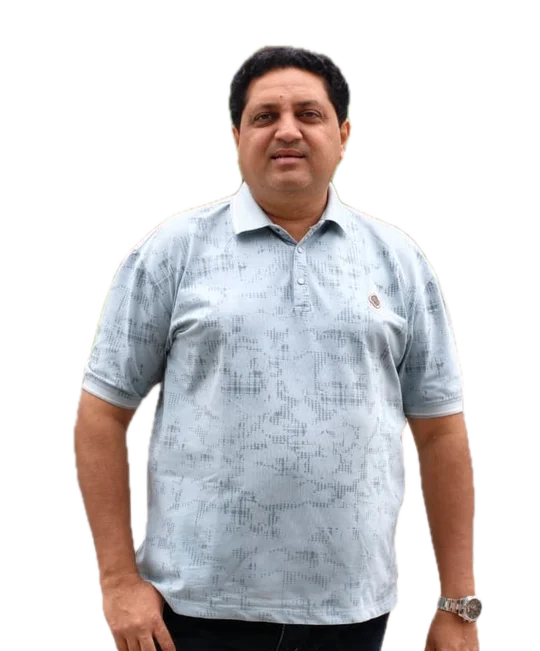
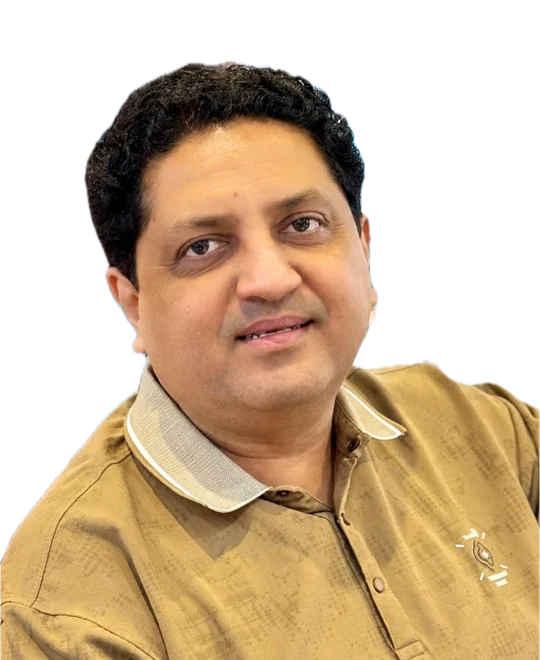
Add "What's new" launches, new founder photo, upright display font
- New section after the marquee showcasing the three recent launches
  (Offline Order App, Web-based ERP, RFID Solution) with animated
  mini-visuals and a "What's New" nav link; copy flagged for product
  team confirmation in lib/content.js
- Founder photo replaced with the new portrait (background removed
  locally); avatar regenerated on white, About card fitted by width
- Display font switched from Fraunces to Playfair Display and gold
  emphasis made upright everywhere — removes the curled "J"

diff --git a/components/Launches.jsx b/components/Launches.jsx
@@ -1,0 +1,149 @@
+import { ArrowRight, Check, Sparkles } from 'lucide-react';
+import Icon from './Icon';
+import SectionHeading from './SectionHeading';
+import { launches } from '@/lib/content';
+
+/* Small animated illustrations, CSS/SVG only. */
+
+function OfflineVisual() {
+  const rows = ['Bangle · 22K · 17.900 g', 'Necklace set · 916', 'Ring · 4.250 g · Dia'];
+  return (
+    <div className="relative mx-auto flex h-56 w-full items-end justify-center overflow-hidden" aria-hidden="true">
+      <div className="relative w-[9.5rem] translate-y-3 rounded-[1.6rem] border-[5px] border-navy-muted bg-navy p-3 pb-6 shadow-lift">
+        <div className="flex items-center justify-between text-[0.55rem] text-white/60">
+          <span>Orders</span>
+          <span className="inline-flex items-center gap-1 rounded-full bg-amber-400/15 px-1.5 py-0.5 font-semibold text-amber-300">
+            <span className="h-1.5 w-1.5 rounded-full bg-amber-300" style={{ animation: 'ping-soft 2s ease-out infinite' }} /> Offline
+          </span>
+        </div>
+        <ul className="mt-2 space-y-1.5">
+          {rows.map((r, i) => (
+            <li key={r} className="flex items-center gap-1.5 rounded-lg bg-white/[0.06] px-2 py-1.5 text-[0.55rem] text-white/85" style={{ animation: `hero-in 0.5s var(--ease) ${i * 0.5}s both` }}>
+              <span className="h-4 w-4 shrink-0 rounded bg-gold/30" /> {r}
+            </li>
+          ))}
+        </ul>
+        <div className="mt-2 rounded-lg bg-gold px-2 py-1 text-center text-[0.55rem] font-bold text-navy">3 orders · syncs when online</div>
+      </div>
+    </div>
+  );
+}
+
+function WebVisual() {
+  return (
+    <div className="relative mx-auto flex h-56 w-full items-end overflow-hidden" aria-hidden="true">
+      <div className="w-full rounded-t-xl border border-white/10 bg-navy shadow-lift">
+        <div className="flex items-center gap-1.5 border-b border-white/10 px-3 py-2">
+          <span className="h-2 w-2 rounded-full bg-[#ff5f57]" />
+          <span className="h-2 w-2 rounded-full bg-[#febc2e]" />
+          <span className="h-2 w-2 rounded-full bg-[#28c840]" />
+          <span className="ml-2 flex-1 truncate rounded-md bg-white/10 px-2 py-0.5 text-[0.55rem] text-white/60">🔒 erp.datacaresoftech.com</span>
+        </div>
+        <div className="grid grid-cols-[4.5rem_1fr] gap-2 p-3">
+          <ul className="space-y-1">
+            {['Dashboard', 'Sales', 'Stock', 'Ledger', 'Reports'].map((t, i) => (
+              <li key={t} className={`rounded px-1.5 py-1 text-[0.55rem] ${i === 0 ? 'bg-gold text-navy' : 'text-white/60'}`}>{t}</li>
+            ))}
+          </ul>
+          <div className="space-y-2">
+            <div className="grid grid-cols-3 gap-1.5">
+              {[['Today’s sale', '₹ 4.8L'], ['Gold fine', '812 g'], ['Branches', '3 live']].map(([k, v]) => (
+                <div key={k} className="rounded-lg bg-white/[0.06] p-1.5">
+                  <p className="text-[0.45rem] uppercase tracking-wider text-white/45">{k}</p>
+                  <p className="text-[0.65rem] font-semibold text-gold-light">{v}</p>
+                </div>
+              ))}
+            </div>
+            <div className="flex h-12 items-end gap-1 rounded-lg bg-white/[0.06] p-1.5">
+              {[40, 55, 35, 70, 60, 85, 75].map((h, i) => (
+                <span key={i} className="flex-1 rounded-sm bg-gold/70" style={{ height: `${h}%`, animation: `draw 0.8s var(--ease) ${i * 0.08}s both`, transformOrigin: 'bottom' }} />
+              ))}
+            </div>
+          </div>
+        </div>
+      </div>
+    </div>
+  );
+}
+
+function RfidVisual() {
+  const tags = [[30, 35], [70, 28], [78, 65], [38, 72], [55, 50], [20, 58]];
+  return (
+    <div className="relative mx-auto flex h-56 w-full items-center justify-center overflow-hidden" aria-hidden="true">
+      <div className="relative aspect-square h-48">
+        {[1, 0.7, 0.4].map((s) => (
+          <span key={s} className="absolute inset-0 m-auto rounded-full border border-gold/25" style={{ width: `${s * 100}%`, height: `${s * 100}%` }} />
+        ))}
+        <span className="absolute inset-0 rounded-full" style={{ background: 'conic-gradient(from 0deg, rgba(201,162,75,.5), transparent 25%)', animation: 'radar 3s linear infinite' }} />
+        {tags.map(([x, y], i) => (
+          <span key={i} className="absolute h-2 w-2 -translate-x-1/2 -translate-y-1/2" style={{ left: `${x}%`, top: `${y}%` }}>
+            <span className="absolute inset-0 rounded-full bg-gold-light" style={{ animation: `ping-soft 3s ${i * 0.5}s ease-out infinite` }} />
+            <span className="absolute inset-0 rounded-full bg-gold" />
+          </span>
+        ))}
+        <span className="absolute left-1/2 top-1/2 flex h-12 w-12 -translate-x-1/2 -translate-y-1/2 items-center justify-center rounded-full bg-navy text-[0.5rem] font-bold uppercase tracking-widest text-gold-light ring-2 ring-gold/50">RFID</span>
+      </div>
+      <div className="absolute bottom-2 right-2 rounded-lg bg-navy px-2.5 py-1.5 text-[0.6rem] text-white/80 ring-1 ring-gold/30">
+        <span className="font-semibold text-gold-light">1,248</span> / 1,250 counted
+      </div>
+    </div>
+  );
+}
+
+const visuals = [OfflineVisual, WebVisual, RfidVisual];
+
+export default function Launches() {
+  return (
+    <section id="launches" className="section relative bg-ivory-deep">
+      <div className="container-x">
+        <SectionHeading
+          eyebrow="New launches"
+          title={
+            <>
+              What’s new in <em className="gold-text">DataCare Next</em>
+            </>
+          }
+          intro="Three additions built from what jewellers asked for this year — orders without internet, the ERP in your browser, and a complete RFID kit for stock counting."
+        />
+        <div className="mt-14 grid gap-6 lg:grid-cols-3">
+          {launches.map((l, i) => {
+            const Visual = visuals[i];
+            return (
+              <article key={l.title} className="card spot group flex flex-col overflow-hidden hover:-translate-y-1 hover:shadow-lift" data-reveal style={{ '--delay': `${i * 100}ms` }}>
+                <div className="dark-surface relative border-b border-white/10 p-5">
+                  <span className="absolute left-5 top-5 z-10 inline-flex items-center gap-1 rounded-full bg-gold px-2.5 py-1 text-[0.62rem] font-bold uppercase tracking-wider text-navy shadow-gold">
+                    <Sparkles size={11} aria-hidden="true" /> {l.badge}
+                  </span>
+                  <Visual />
+                </div>
+                <div className="flex flex-1 flex-col p-7">
+                  <div className="flex items-center gap-3">
+                    <span className="icon-chip">
+                      <Icon name={l.icon} />
+                    </span>
+                    <h3 className="font-display text-2xl font-medium leading-tight text-ink">{l.title}</h3>
+                  </div>
+                  <p className="mt-3 text-[1.02rem] font-medium text-ink">{l.tagline}</p>
+                  <p className="mt-2 text-sm leading-relaxed text-ink-muted">{l.text}</p>
+                  <ul className="mt-5 space-y-2">
+                    {l.points.map((pt) => (
+                      <li key={pt} className="flex items-start gap-2 text-sm text-ink">
+                        <span className="mt-0.5 inline-flex h-4.5 w-4.5 shrink-0 items-center justify-center rounded-full bg-gold text-navy" style={{ width: 18, height: 18 }}>
+                          <Check size={11} strokeWidth={3} aria-hidden="true" />
+                        </span>
+                        {pt}
+                      </li>
+                    ))}
+                  </ul>
+                  <a href="#contact" className="mt-auto inline-flex items-center gap-2 pt-6 font-semibold text-gold-dark transition hover:gap-3">
+                    {l.cta} <ArrowRight size={16} aria-hidden="true" />
+                  </a>
+                </div>
+              </article>
+            );
+          })}
+        </div>
+      </div>
+    </section>
+  );
+}

diff --git a/lib/content.js b/lib/content.js
@@ -3,6 +3,7 @@
 // feature that the product team has not confirmed.
 
 export const nav = [
+  { label: 'What’s New', href: '#launches' },
   { label: 'Features', href: '#features' },
   { label: 'Solutions', href: '#solutions' },
   { label: 'Plans', href: '#plans' },
@@ -10,6 +11,38 @@ export const nav = [
   { label: 'Reviews', href: '#reviews' },
   { label: 'FAQ', href: '#faq' },
   { label: 'Contact', href: '#contact' },
+];
+
+// Recent launches showcased near the top of the page.
+// TODO (product team): confirm every claim below before go-live.
+export const launches = [
+  {
+    badge: 'New',
+    icon: 'Smartphone',
+    title: 'Offline Order App',
+    tagline: 'Take orders anywhere — even without internet.',
+    text: 'For exhibitions, client visits and showrooms with patchy network. Browse your catalogue, book customer orders with design, weight and advance, and let the app sync everything to DataCare Next when you are back online.',
+    points: ['Works fully offline, syncs later', 'Catalogue with images and weights', 'Orders land directly in the ERP'],
+    cta: 'See the order app',
+  },
+  {
+    badge: 'New',
+    icon: 'Globe',
+    title: 'Web-based ERP',
+    tagline: 'DataCare Next, now in your browser.',
+    text: 'Open billing, stock, ledgers and reports from any computer at any branch — no installation, nothing to maintain on the counter PC. Your data stays in one secure place and every branch sees the same figures.',
+    points: ['No installation — just log in', 'Any computer, any branch', 'Live figures across locations'],
+    cta: 'Try the web ERP',
+  },
+  {
+    badge: 'New',
+    icon: 'Radar',
+    title: 'RFID Solution',
+    tagline: 'Count your whole showroom in minutes.',
+    text: 'A complete kit — RFID tags, handheld reader and a mobile app — installed and configured by our team. Verify stock counter by counter, find missing pieces the same day and close your books with confidence.',
+    points: ['Tags + reader + mobile app', 'Full stock count in minutes', 'Setup and training by our team'],
+    cta: 'Get an RFID quote',
+  },
 ];
 
 export const marquee = [

diff --git a/components/About.jsx b/components/About.jsx
@@ -59,7 +59,7 @@ export default function About() {
 
           <div className="dark-surface relative overflow-hidden rounded-[1.75rem] text-white shadow-lift lg:self-stretch" data-reveal="right">
             <div className="grid-lines pointer-events-none absolute inset-0" aria-hidden="true" />
-            <div className="relative grid h-full sm:grid-cols-[1fr_minmax(13rem,17rem)]">
+            <div className="relative grid h-full sm:grid-cols-[1fr_minmax(15rem,19rem)]">
               {/* Copy */}
               <div className="flex flex-col justify-between p-8 sm:p-10">
                 <div>
@@ -84,7 +84,7 @@ export default function About() {
                 </dl>
               </div>
               {/* Portrait */}
-              <div className="relative min-h-[20rem] sm:min-h-0">
+              <div className="relative min-h-[22rem] sm:min-h-0">
                 <div aria-hidden="true" className="absolute bottom-0 left-1/2 h-[85%] w-[85%] -translate-x-1/2 rounded-full bg-gold/25 blur-[70px]" />
                 <div aria-hidden="true" className="absolute inset-x-6 bottom-0 top-10 rounded-t-full border border-gold/30" />
                 <Image
@@ -93,7 +93,7 @@ export default function About() {
                   width={540}
                   height={651}
                   sizes="(max-width: 640px) 80vw, 272px"
-                  className="absolute bottom-0 left-1/2 h-[96%] w-auto max-w-none -translate-x-1/2 object-contain object-bottom drop-shadow-[0_20px_40px_rgba(0,0,0,.6)]"
+                  className="absolute bottom-0 left-1/2 h-auto w-[104%] max-w-none -translate-x-1/2 object-contain object-bottom drop-shadow-[0_20px_40px_rgba(0,0,0,.6)]"
                 />
               </div>
             </div>

diff --git a/components/Icon.jsx b/components/Icon.jsx
@@ -5,7 +5,7 @@ import {
   MapPin, MessageCircle, Network, PackageSearch, PiggyBank, Printer, Radar, ReceiptIndianRupee,
   Recycle, Scale, ScanBarcode, ScanSearch, Settings2, ShieldCheck, ShoppingCart, Smartphone,
   Sparkles, SplitSquareHorizontal, Store, Tags, Timer, TrendingUp, Truck, Undo2, UserRoundSearch,
-  Users, Wallet, Wrench, Zap,
+  Users, Wallet, Wrench, Zap, Globe,
 } from 'lucide-react';
 
 // Content files reference icons by name so copy stays plain data.
@@ -16,7 +16,7 @@ const icons = {
   MapPin, MessageCircle, Network, PackageSearch, PiggyBank, Printer, Radar, ReceiptIndianRupee,
   Recycle, Scale, ScanBarcode, ScanSearch, Settings2, ShieldCheck, ShoppingCart, Smartphone,
   Sparkles, SplitSquareHorizontal, Store, Tags, Timer, TrendingUp, Truck, Undo2, UserRoundSearch,
-  Users, Wallet, Wrench, Zap,
+  Users, Wallet, Wrench, Zap, Globe,
 };
 
 export default function Icon({ name, size = 20, className, strokeWidth = 1.75 }) {

diff --git a/components/Hero.jsx b/components/Hero.jsx
@@ -42,7 +42,7 @@ export default function Hero() {
           </p>
 
           <h1 className="mt-6 font-display text-[2.45rem] font-medium leading-[1.04] tracking-tight sm:text-[3.4rem] lg:text-[3.9rem] hero-rise">
-            <span className="gold-text italic">Jewellery Software</span> for Retail, Wholesale &amp; Manufacturing Jewellers in India
+            <span className="gold-text">Jewellery Software</span> for Retail, Wholesale &amp; Manufacturing Jewellers in India
           </h1>
 
           <p className="mt-6 max-w-xl text-base leading-relaxed text-white/70 sm:text-lg hero-rise" style={{ '--d': '80ms' }}>

diff --git a/app/page.jsx b/app/page.jsx
@@ -3,6 +3,7 @@ import Header from '@/components/Header';
 import Hero from '@/components/Hero';
 import TrustStrip from '@/components/TrustStrip';
 import Marquee from '@/components/Marquee';
+import Launches from '@/components/Launches';
 import Problems from '@/components/Problems';
 import Solutions from '@/components/Solutions';
 import Features from '@/components/Features';
@@ -38,6 +39,7 @@ export default function HomePage() {
         <Hero />
         <TrustStrip />
         <Marquee />
+        <Launches />
         <Problems />
         <Solutions />
         <Features />

diff --git a/app/layout.jsx b/app/layout.jsx
@@ -1,14 +1,14 @@
-import { Fraunces, Inter } from 'next/font/google';
+import { Inter, Playfair_Display } from 'next/font/google';
 import Script from 'next/script';
 import { SITE_URL, company } from '@/lib/site';
 import './globals.css';
 
-const display = Fraunces({
+const display = Playfair_Display({
   subsets: ['latin'],
   variable: '--font-display',
   display: 'swap',
   style: ['normal', 'italic'],
-  weight: ['400', '500', '600'],
+  weight: ['500', '600', '700'],
 });
 
 const sans = Inter({

diff --git a/app/globals.css b/app/globals.css
@@ -94,7 +94,9 @@
     @apply text-base leading-relaxed text-ink-muted sm:text-lg;
   }
 
+  /* Gold emphasis is always upright — the italic swash letters looked crooked. */
   .gold-text {
+    font-style: normal;
     background: linear-gradient(100deg, #9c7a2e 0%, #c9a24b 30%, #f1d58e 48%, #c9a24b 62%, #9c7a2e 100%);
     background-size: 220% auto;
     -webkit-background-clip: text;
